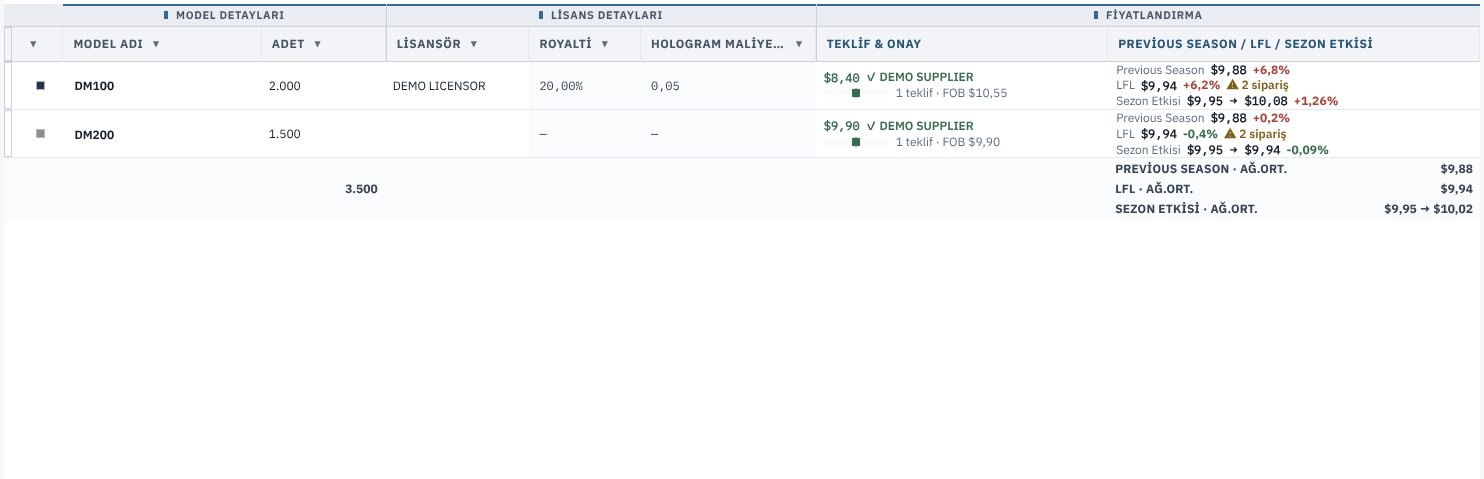
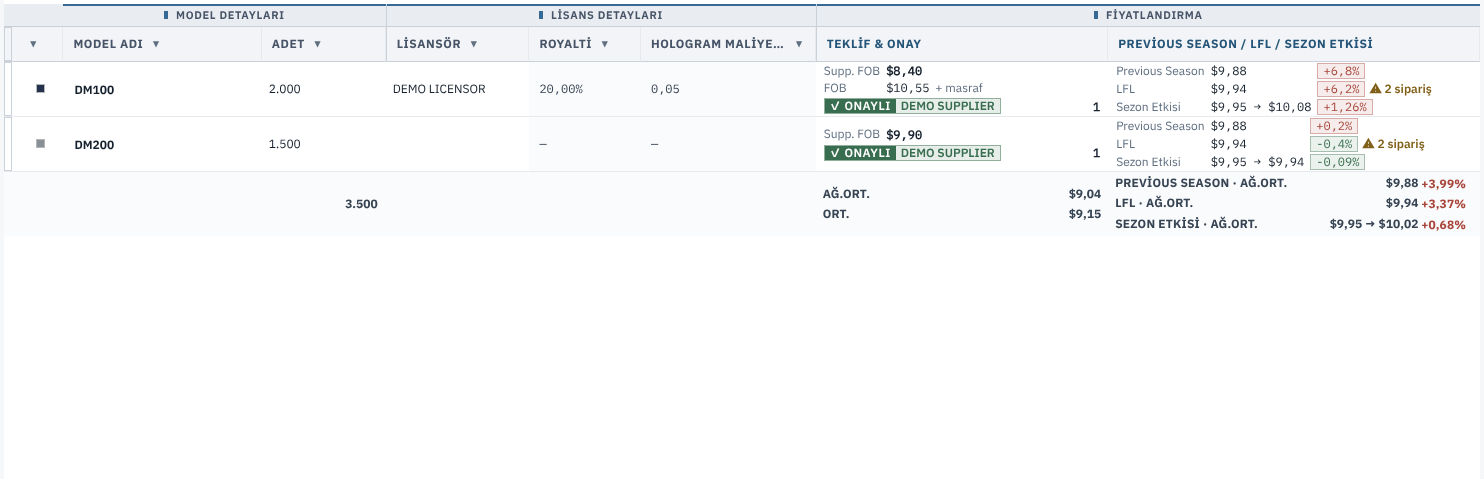
chore(release-notes): #1186 kart diliyle birleşme sonrası ekran görüntüleri yenilendi
Footer % renk kontrolü hücrelerdeki good/bad blCellTag rengiyle karşılaştırılır.

Claude-Session: https://claude.ai/code/session_01HKcjmgiQDw3tVzwsdPwD1f

diff --git a/resources/app/scripts/collection-price-footer-percent-screenshot.js b/resources/app/scripts/collection-price-footer-percent-screenshot.js
@@ -38,8 +38,8 @@ const { start } = require('./lib/client-performance-app');
     assert.match(footer, /Ağ\.% Δ Target\s*\+5,3%/);
     for (const label of ['Previous Season', 'LFL', 'Sezon Etkisi']) assert.match(footer, new RegExp(label + ' · Ağ\\.Ort\\.\\$[0-9,]+(?: → \\$[0-9,]+)? [+-]?[0-9,]+%'), label);
     assert.equal(await page.$$eval('#kolTable tfoot .kolBestDelta', els => els.length), 4, 'Quotes & Approval + three reference percentages');
-    const colours = await page.evaluate(() => ({ foot: [...document.querySelectorAll('#kolTable tfoot .kolBestDelta')].map(el => [el.classList.contains('isAboveTarget'), getComputedStyle(el).color]), body: Object.fromEntries([...document.querySelectorAll('#kolTable tbody .kolBestDelta')].map(el => [String(el.classList.contains('isAboveTarget')), getComputedStyle(el).color])) }));
-    for (const [above, colour] of colours.foot) assert.equal(colour, colours.body[String(above)], 'footer % keeps the above/below-target colour');
+    const colours = await page.evaluate(() => ({ foot: [...document.querySelectorAll('#kolTable tfoot .kolBestDelta')].map(el => [el.classList.contains('isAboveTarget'), getComputedStyle(el).color]), body: Object.fromEntries([...document.querySelectorAll('#kolTable tbody .blCellTag[data-tone="good"], #kolTable tbody .blCellTag[data-tone="bad"]')].map(el => [String(el.dataset.tone === 'bad'), getComputedStyle(el).color])) }));
+    for (const [above, colour] of colours.foot) assert.equal(colour, colours.body[String(above)], 'footer % uses the same good/bad colour as the cell chips');
     await page.mouse.move(5, 5); await page.waitForTimeout(400);
     const box = await page.$eval('#kolTable', el => { const r = el.getBoundingClientRect(); return { x: r.x, y: r.y, width: r.width, height: r.height }; });
     const screenshot = path.join(__dirname, '../public/release-notes/next-assets/collection-price-footer-percent.png');
